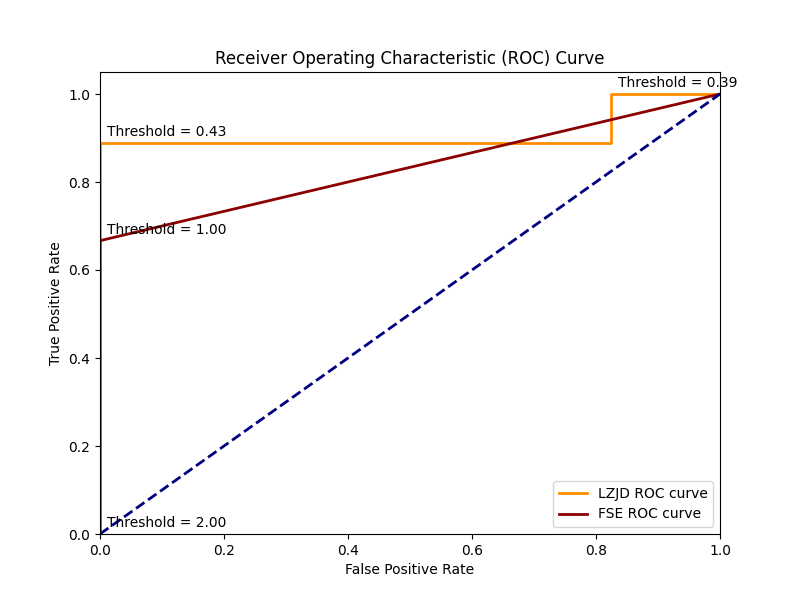
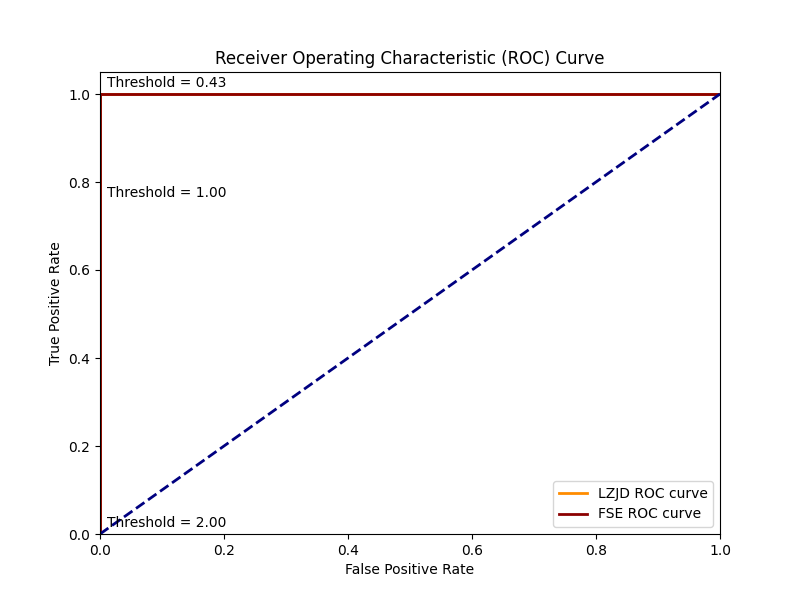
Adjust eds_sim

diff --git a/lzjd-script.py b/lzjd-script.py
@@ -79,6 +79,7 @@ def eds_sim(A, B):
     
     #intersection_size = lzjd_cython.intersection_size(A, B)
     intersection_size = float(np.intersect1d(A, B, assume_unique=True).shape[0])
+    union_size = float(np.union1d(A, B).shape[0])
     
     #hashes should normally be the same size. Its possible to use different size hashesh tough. 
     #Could happen from small files, or just calling with differen hash_size values
@@ -89,7 +90,7 @@ def eds_sim(A, B):
 
     # double sim = same / (double) (x_minset.length + y_minset.length - same);
 
-    return intersection_size / (A.shape[0] + B.shape[0] - intersection_size)
+    return intersection_size / union_size
 
     #min_len = min(A.shape[0], B.shape[0])
     

diff --git a/roc.py b/roc.py
@@ -16,6 +16,9 @@ fse_true, fse_pred = fse["correct"], fse["sim"]
 lzjd_fpr, lzjd_tpr, lzjd_thresholds = roc_curve(lzjd_true, lzjd_pred)
 fse_fpr, fse_tpr, fse_thresholds = roc_curve(fse_true, fse_pred)
 
+#import ipdb
+#ipdb.set_trace()
+
 roc_auc = roc_auc_score(lzjd_true, lzjd_pred)
 
 plt.figure(figsize=(8, 6))
